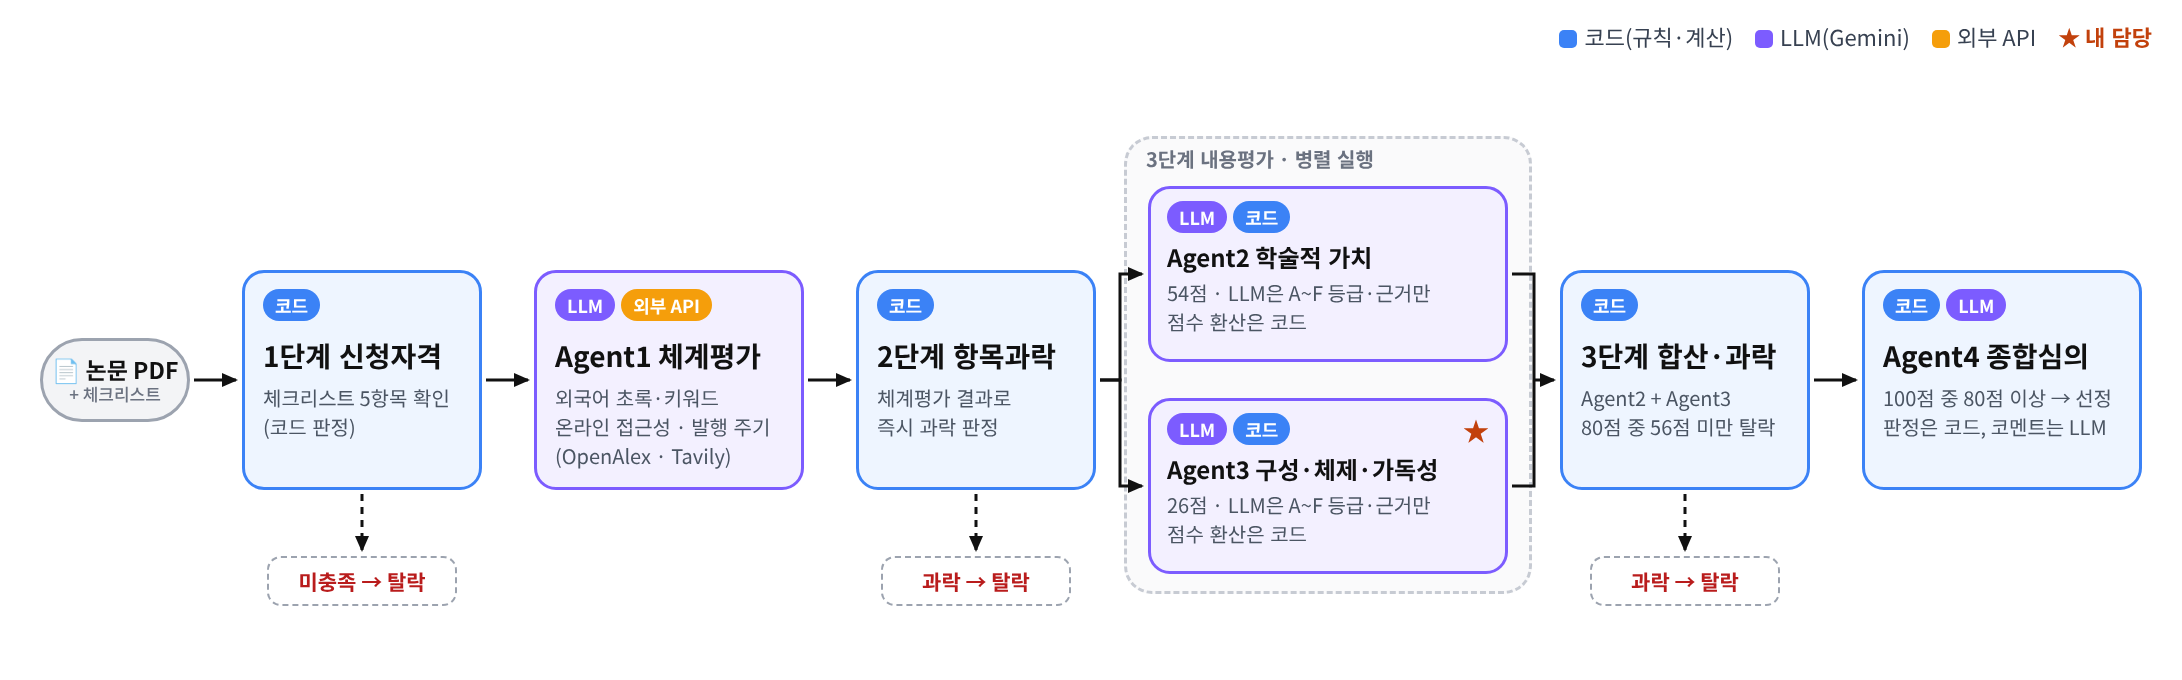
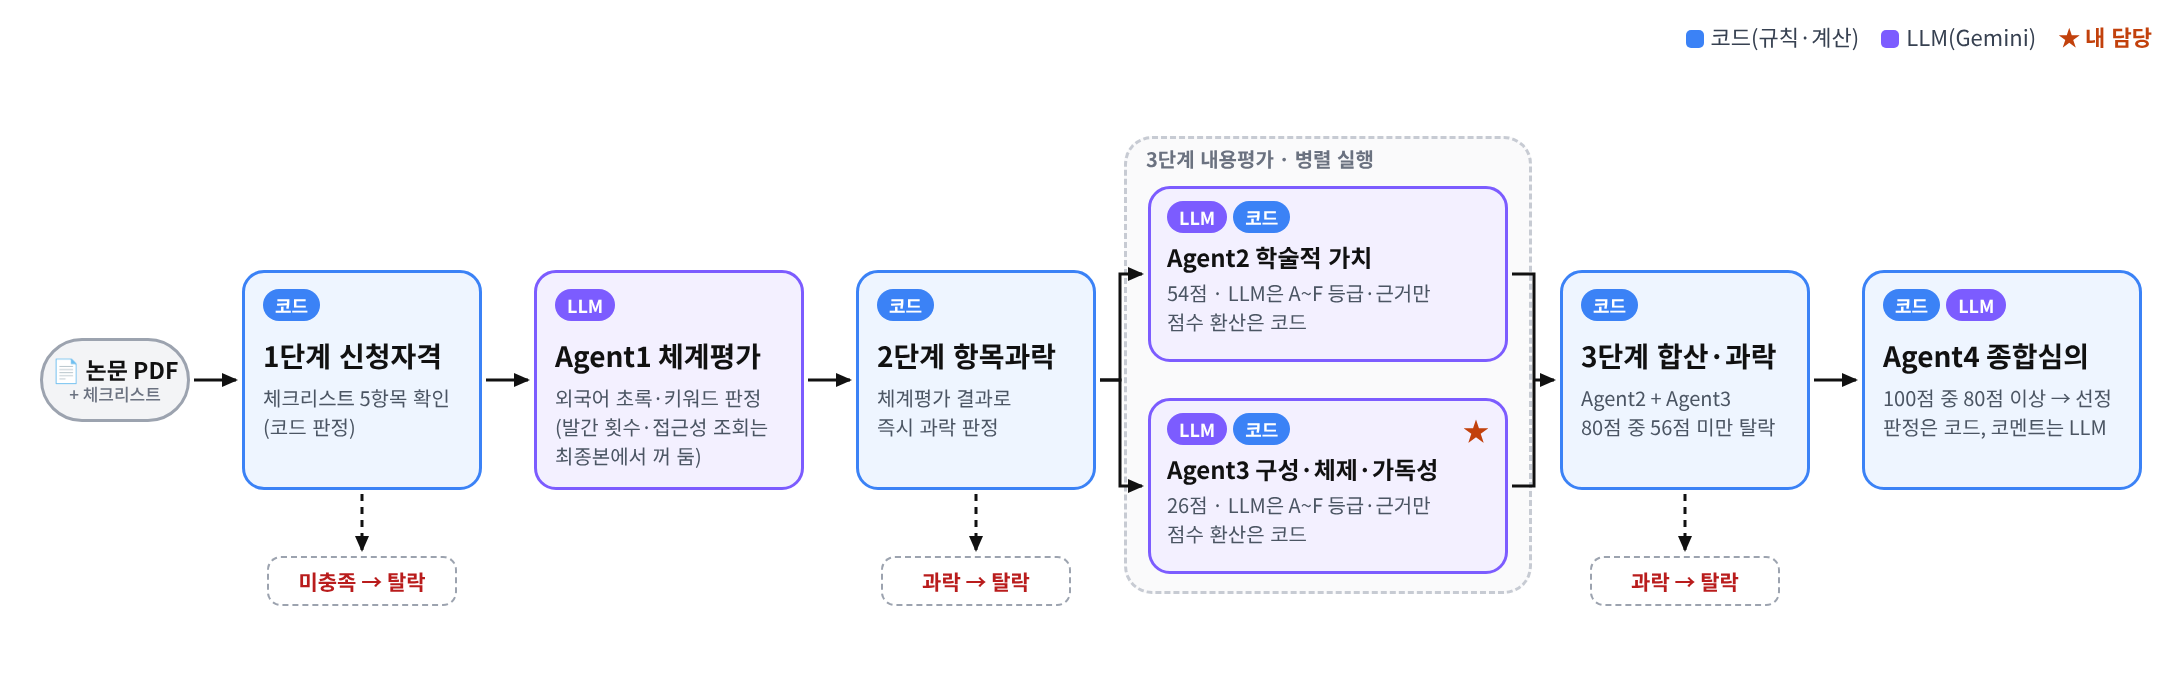
docs: README 시연 GIF·처리 흐름 추가, 제목 수정

Changed region(s): [[0.7168, 0.0309, 0.9349, 0.0926], [0.2493, 0.6176, 0.374, 0.6794], [0.2805, 0.4015, 0.3428, 0.4941]]

diff --git a/README.md b/README.md
@@ -1,16 +1,25 @@
-# KCI 등재후보학술지 평가 지원 Multi-Agent
+# KCI 등재후보학술지 심사 지원 Multi-Agent
 
 > 학술지 논문 PDF와 신청 체크리스트를 넣으면, KCI 등재후보학술지 평가 기준(신청자격 → 체계평가 → 내용평가 → 종합심의)을 단계별로 적용해 **항목별 등급·근거·점수와 선정 여부 초안**을 만들어 주는 LangGraph 멀티 에이전트입니다.
 > 점수는 LLM이 아니라 코드가 계산합니다. LLM은 항목마다 A~F 등급과 근거 문장만 냅니다.
 
-성균관대 × LS AI 교육과정 팀 프로젝트 · 2026.09 (3일 미니 프로젝트)
+성균관대 × LS AI 교육과정 팀 프로젝트 · 2026.09
 
 | 항목 | 내용 |
 |---|---|
-| 기간 | 2026.09.18 ~ 09.20 |
+| 기간 | 2026.09 |
 | 팀 구성 | 에이전트 단위로 역할 분담 |
 | 내 역할 | Agent3 구성·체제·가독성 평가 + 합성 평가 데이터 설계·검증 |
 | 스택 | Python · LangGraph · LangChain · Gemini · Pydantic · Streamlit · pdfplumber |
+
+<br>
+
+## 시연
+
+| 체크리스트 → 분석 | 상세 평가 리포트 |
+|---|---|
+| ![체크리스트와 분석](docs/assets/readme/kci-1-analyze.gif) | ![상세 평가 리포트](docs/assets/readme/kci-2-report.gif) |
+| 신청자격 5항목을 확인하고 논문 PDF를 올리면 그래프가 단계별로 실행되어 최종 판정이 나옵니다 | 단계별 점수와 항목별 등급·근거. 합성 B(구성·가독성 훼손) 논문은 Agent3에서 구성·체제 완전성 E, 가독성 E로 감점됩니다 |
 
 <br>
 
@@ -20,6 +29,7 @@
 
 - **관문(신청자격·항목과락·합산 과락)은 코드**로 판정합니다. 기준 미달이면 그 자리에서 탈락하고 다음 에이전트를 부르지 않습니다.
 - **Agent2(학술적 가치 54점)와 Agent3(구성·체제·가독성 26점)는 병렬**로 실행되고, 합산 80점 중 56점 미만이면 탈락합니다.
+- **Agent1**은 외국어 초록·주제어를 Gemini로 판정합니다. 발간 횟수(Tavily)·온라인 접근성(OpenAlex) 조회 도구도 있지만, 화면에서 학술지 ISSN을 받지 않아 최종본에서는 이 두 항목을 꺼 두고 통과로 처리합니다.
 - **Agent4**는 100점 중 80점 이상이면 선정으로 판정(코드)하고, 심의 코멘트만 LLM이 씁니다.
 
 <br>
@@ -68,15 +78,16 @@
 
 ```bash
 pip install -r requirements.txt
+cp .env.example .env   # GEMINI_API_KEY 입력
 streamlit run app.py
 ```
 
-프로젝트 루트에 `.env`를 만들고 아래 값을 넣습니다.
+`.env` 항목:
 
 ```
 GEMINI_API_KEY=...
-TAVILY_API_KEY=...
-OPEN_ALEX_API_KEY=...      # Agent1 발행 주기·접근성 조회
+TAVILY_API_KEY=...         # 위와 같음
+OPEN_ALEX_API_KEY=...      # 발간 횟수·접근성 조회 (최종본에서는 꺼 둠, 비워도 실행됨)
 GEMINI_MODEL_NAME=gemini-3.7-flash   # 선택
 ```
 
@@ -92,21 +103,10 @@ graph.py               LangGraph 흐름: 관문 노드, 병렬 분기, 합산
 state.py               공유 상태(KCIEvalState), 등급 타입
 config.py              배점·과락 기준·등급 환산표, 모델 이름
 agents/
-  agent1_foreign_lang.py   체계평가 (외국어 초록·키워드, 온라인 접근성, 발행 주기)
+  agent1_foreign_lang.py   체계평가 (외국어 초록·키워드. 발간 횟수·접근성은 꺼 둠)
   agent2_academic_value.py 학술적 가치 (54점)
   agent3_structure.py      구성·체제·가독성 (26점)  ← 내 담당
   agent4_final_decision.py 종합심의 (판정 코드 + LLM 코멘트)
   tools/                   OpenAlex · Tavily 조회 도구
 data/                  합성 평가 데이터와 설계 문서  ← 내 담당
 ```
-
-<br>
-
-## 팀
-
-| 담당 | 내용 |
-|---|---|
-| 나송주 | Agent3 구성·체제·가독성, 합성 평가 데이터 설계·검증 |
-| 팀원 | Agent1 체계평가 · Agent2 학술적 가치(프롬프트 개선 v1~v4) · Agent4 종합심의 · LangGraph 흐름 · Streamlit 화면 |
-
-원본 저장소의 팀 커밋 이력을 그대로 옮겨 왔습니다.
